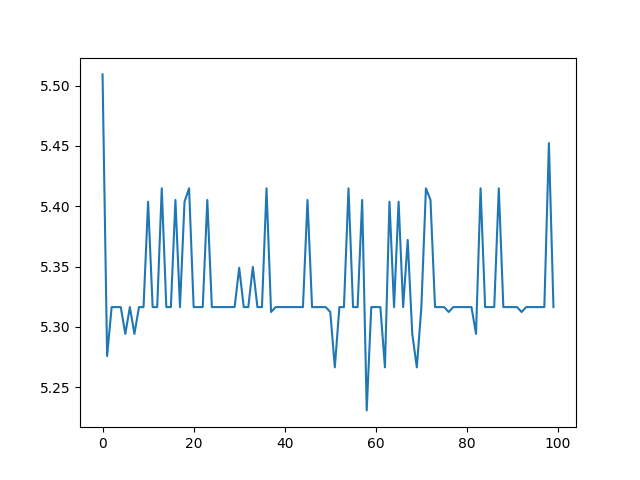
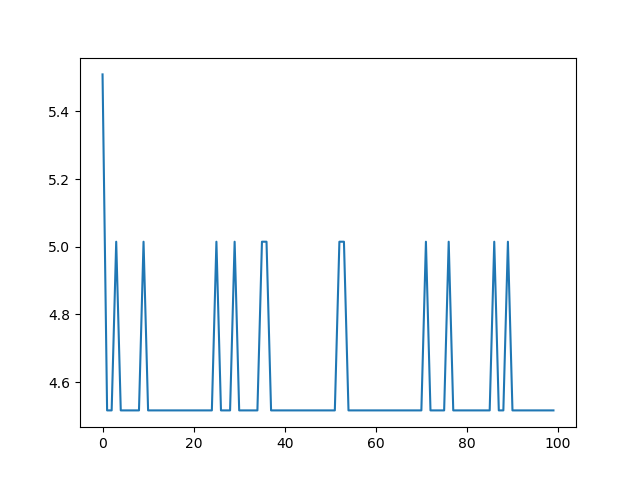
Made Changes for empy pkl files

diff --git a/trainModel.py b/trainModel.py
@@ -14,16 +14,19 @@ num_characters=247
 # prepare code to fetch datasets
 users=deque(os.listdir("Pickles/Pkl"))
 def load_next_batch():
-	#return image
-	file_c=users.popleft()
-	print("Batch Name:",file_c)
-	users.append(file_c)
-	pickle_file="Pickles/Pkl/"+file_c
-	pickle_file=open(pickle_file,"rb")
-	save=pickle.load(pickle_file)
-	image_r=save["images"].reshape([-1,image_size*image_size])
-	label_r=save["labels"]
-	return image_r,label_r
+    #return image
+    file_c=users.popleft()
+    print("Batch Name:",file_c)
+    users.append(file_c)
+    pickle_file="Pickles/Pkl/"+file_c
+    pickle_file=open(pickle_file,"rb")
+    save=pickle.load(pickle_file)
+    image_r=save["images"].reshape([-1,image_size*image_size])
+    label_r=save["labels"]
+    if(len(label_r)==0):
+        print("Error in loading .. Continuing for the nest iteration")
+        return load_next_batch()
+    return image_r,label_r
 
 def make_test_data():
 	test_pickle_file="Pickles/Pkl/usr_"+user+".pkl"
